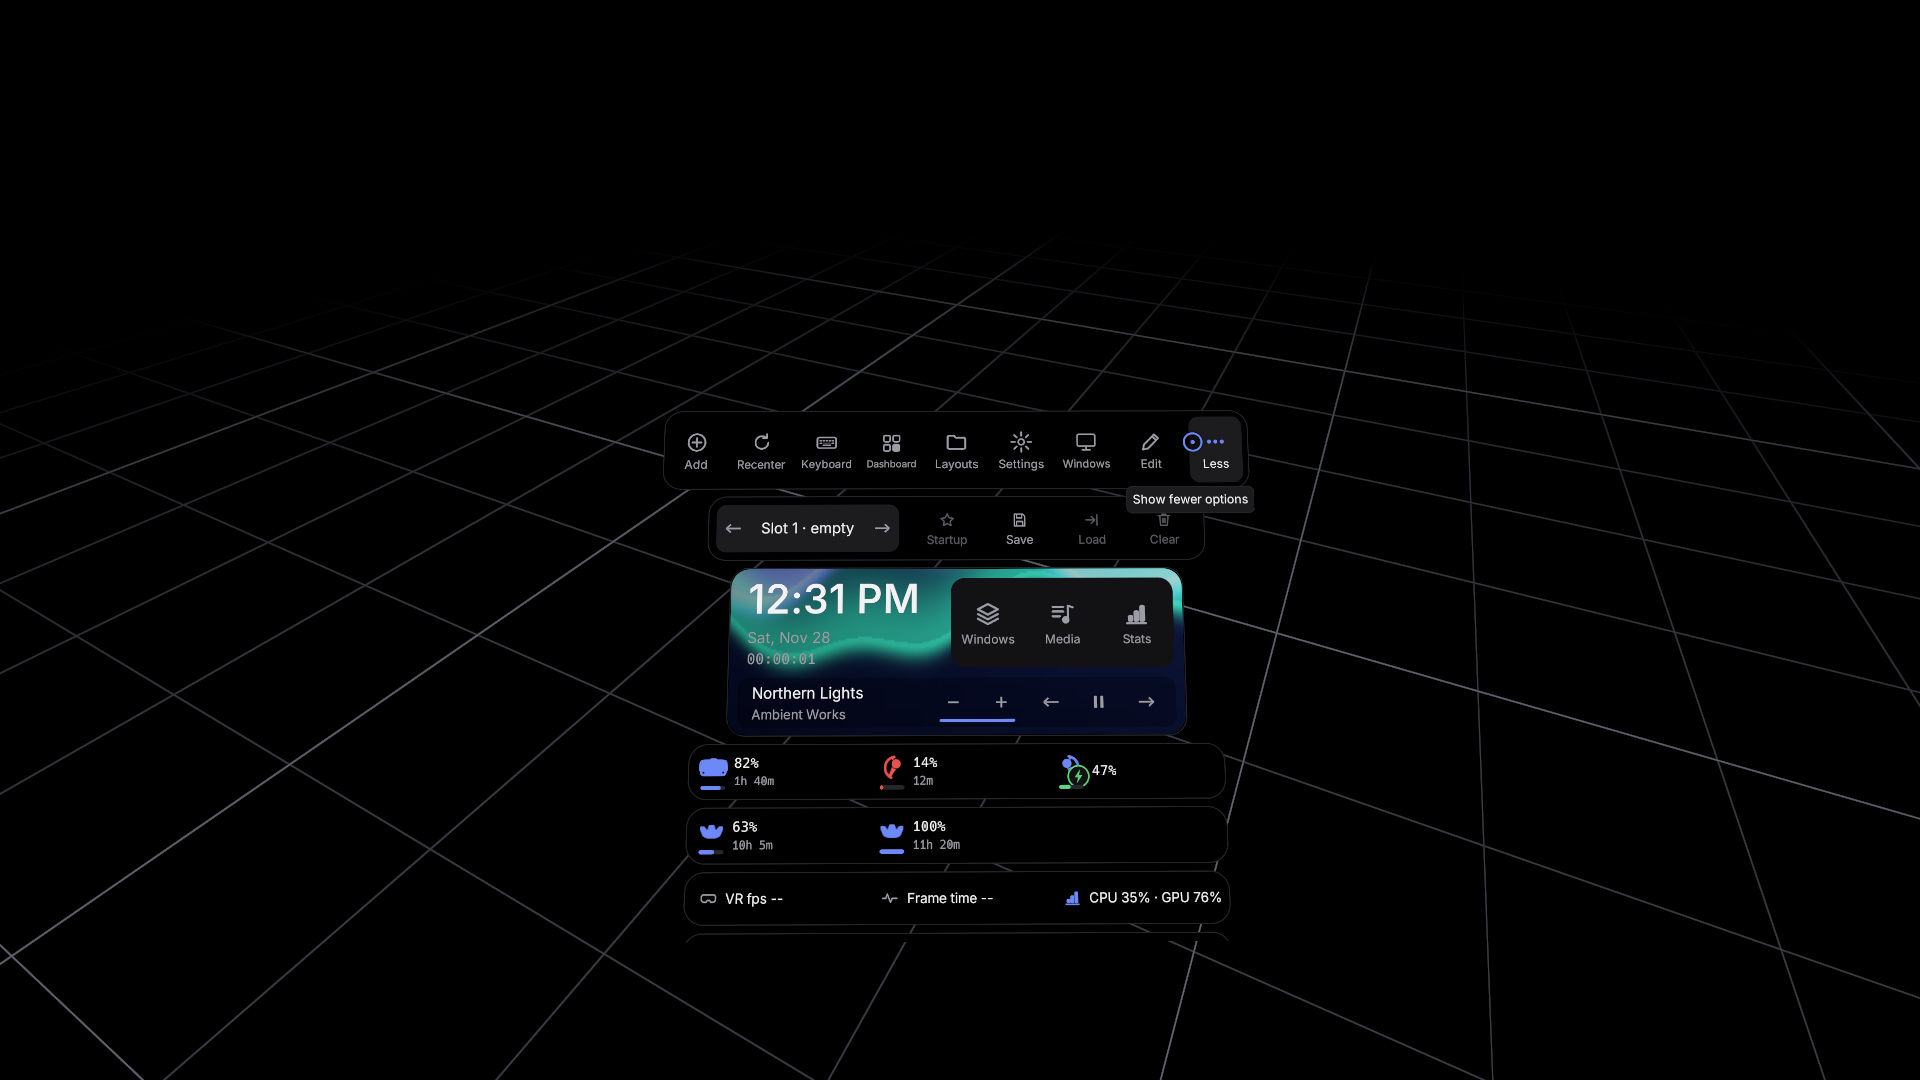
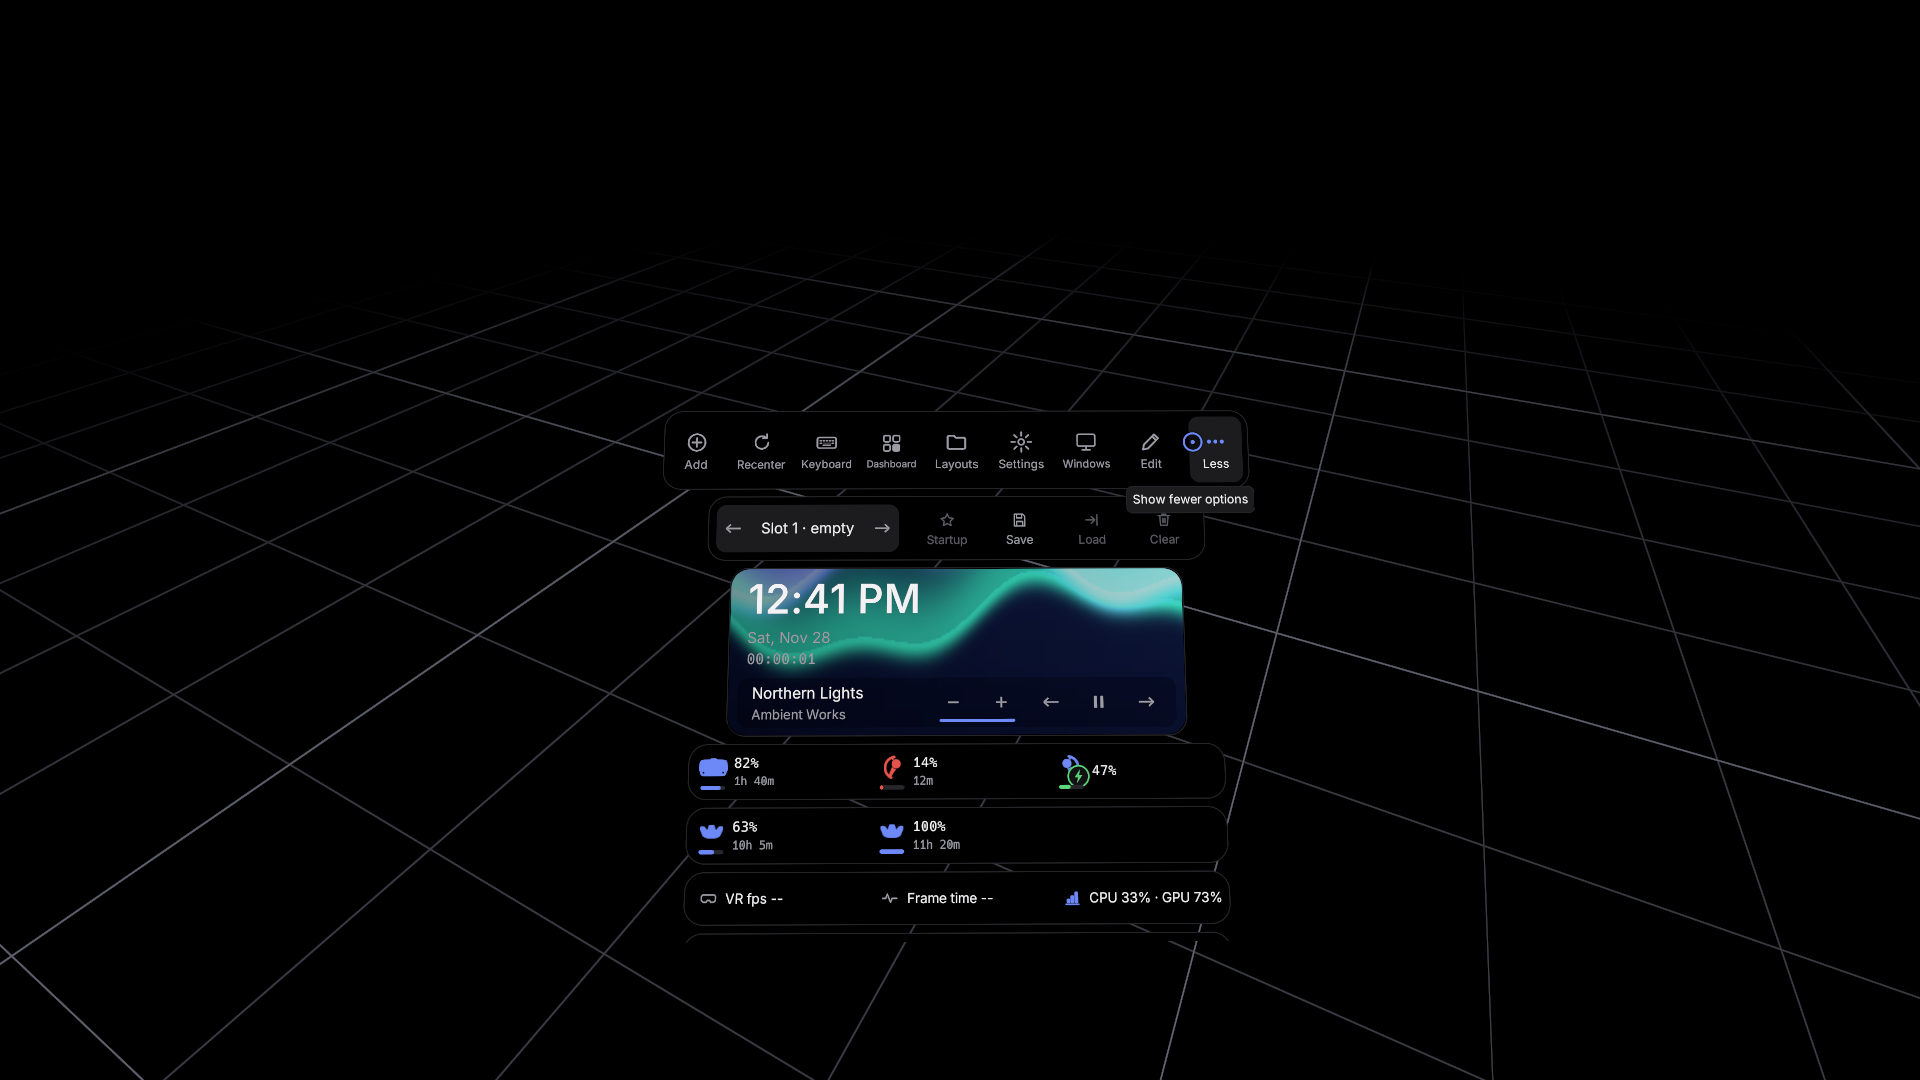
Monitor names, resting hand stays dark on the keyboard, no wrist views box
- Monitors are labelled with their own name from Windows (QueryDisplay-
  Config's friendly name, what Display Settings shows: "Q27G4" instead
  of "Monitor 0"; tester: not readable). Same models get "(1)", "(2)";
  no name falls back to "Monitor N". Read at startup and on refresh.
- VR keyboard: only typing hands light keys. The hand that typed last
  always does, the other only within 3 s of its own last press (two-
  handed typing keeps both lit); before anything is typed, both do.
  Tester: the resting hand's laser lit keys.
- Wrist: the Windows / Media / Stats views box is gone (it doubled the
  Windows button, the music row and the Stats pop-out; tester: didn't
  fit). The clock + media panel takes the full width; old configs just
  ignore the bit. Store shots and the overview re-rendered.

Tester: works.

Changed region(s): [[0.4062, 0.5194, 0.625, 0.6417], [0.5938, 0.825, 0.625, 0.8556]]

diff --git a/crates/rsoverlay-capture/src/lib.rs b/crates/rsoverlay-capture/src/lib.rs
@@ -17,6 +17,9 @@ pub struct MonitorInfo {
     pub width: u32,
     pub height: u32,
     pub device_name: String,
+    /// The monitor's own name as Windows shows it ("DELL U2723QE");
+    /// empty when Windows doesn't know one.
+    pub name: String,
     /// Top-left of the monitor in the Windows virtual-desktop coordinate
     /// space. Used by input injection to translate overlay-local coordinates
     /// back to real pixel positions.
@@ -89,6 +92,7 @@ mod dxgi {
     pub fn enumerate_monitors() -> Result<Vec<MonitorInfo>> {
         unsafe {
             let factory: IDXGIFactory1 = CreateDXGIFactory1().context("CreateDXGIFactory1")?;
+            let names = friendly_names();
             let mut monitors = Vec::new();
             let mut adapter_idx = 0u32;
             while let Ok(adapter) = factory.EnumAdapters1(adapter_idx) {
@@ -108,6 +112,7 @@ mod dxgi {
                         index: monitors.len() as u32,
                         width: (coords.right - coords.left) as u32,
                         height: (coords.bottom - coords.top) as u32,
+                        name: names.get(&name).cloned().unwrap_or_default(),
                         device_name: name,
                         origin_x: coords.left,
                         origin_y: coords.top,
@@ -119,6 +124,54 @@ mod dxgi {
             }
             Ok(monitors)
         }
+    }
+
+    /// GDI device name (`\\.\DISPLAY1`) -> the monitor's friendly name
+    /// (EDID model, what Display Settings shows), for active displays.
+    fn friendly_names() -> std::collections::HashMap<String, String> {
+        use windows::Win32::Devices::Display::{
+            DisplayConfigGetDeviceInfo, GetDisplayConfigBufferSizes, QueryDisplayConfig, DISPLAYCONFIG_DEVICE_INFO_GET_SOURCE_NAME,
+            DISPLAYCONFIG_DEVICE_INFO_GET_TARGET_NAME, DISPLAYCONFIG_MODE_INFO, DISPLAYCONFIG_PATH_INFO, DISPLAYCONFIG_SOURCE_DEVICE_NAME,
+            DISPLAYCONFIG_TARGET_DEVICE_NAME, QDC_ONLY_ACTIVE_PATHS,
+        };
+        let utf16 = |b: &[u16]| String::from_utf16_lossy(&b[..b.iter().position(|&c| c == 0).unwrap_or(b.len())]);
+        let mut out = std::collections::HashMap::new();
+        // SAFETY: buffers sized by GetDisplayConfigBufferSizes; each info
+        // request carries its own size in the header.
+        unsafe {
+            let (mut np, mut nm) = (0u32, 0u32);
+            if GetDisplayConfigBufferSizes(QDC_ONLY_ACTIVE_PATHS, &mut np, &mut nm).is_err() {
+                return out;
+            }
+            let mut paths = vec![DISPLAYCONFIG_PATH_INFO::default(); np as usize];
+            let mut modes = vec![DISPLAYCONFIG_MODE_INFO::default(); nm as usize];
+            if QueryDisplayConfig(QDC_ONLY_ACTIVE_PATHS, &mut np, paths.as_mut_ptr(), &mut nm, modes.as_mut_ptr(), None).is_err() {
+                return out;
+            }
+            for p in &paths[..np as usize] {
+                let mut src = DISPLAYCONFIG_SOURCE_DEVICE_NAME::default();
+                src.header.r#type = DISPLAYCONFIG_DEVICE_INFO_GET_SOURCE_NAME;
+                src.header.size = std::mem::size_of::<DISPLAYCONFIG_SOURCE_DEVICE_NAME>() as u32;
+                src.header.adapterId = p.sourceInfo.adapterId;
+                src.header.id = p.sourceInfo.id;
+                if DisplayConfigGetDeviceInfo(&mut src.header) != 0 {
+                    continue;
+                }
+                let mut tgt = DISPLAYCONFIG_TARGET_DEVICE_NAME::default();
+                tgt.header.r#type = DISPLAYCONFIG_DEVICE_INFO_GET_TARGET_NAME;
+                tgt.header.size = std::mem::size_of::<DISPLAYCONFIG_TARGET_DEVICE_NAME>() as u32;
+                tgt.header.adapterId = p.targetInfo.adapterId;
+                tgt.header.id = p.targetInfo.id;
+                if DisplayConfigGetDeviceInfo(&mut tgt.header) != 0 {
+                    continue;
+                }
+                let name = utf16(&tgt.monitorFriendlyDeviceName).trim().to_string();
+                if !name.is_empty() {
+                    out.insert(utf16(&src.viewGdiDeviceName), name);
+                }
+            }
+        }
+        out
     }
 
     pub struct DxgiDuplication {

diff --git a/crates/rsoverlay-ui/src/vrkeyboard.rs b/crates/rsoverlay-ui/src/vrkeyboard.rs
@@ -181,6 +181,10 @@ pub struct VrKeyboard {
     /// Per hand: backspace held since, and deletes done so far (iPhone
     /// style repeat, every mode).
     bs_hold: [Option<(f64, u32)>; 2],
+    /// Per hand: when it last pressed a key; and the hand that pressed
+    /// last. Only typing hands light keys up (see [`hand_highlights`]).
+    pressed_at: [Option<f64>; 2],
+    last_hand: Option<usize>,
     latched: [bool; 2],
     labels: HashMap<ScanKey, String>,
     label_key: Option<(isize, LabelMods)>,
@@ -231,6 +235,22 @@ fn key_sound(kind: Kind, scan: u16) -> rsoverlay_audio::typing::KeySound {
         (_, 0x1C) => S::Enter,
         (_, 0x0E) => S::Backspace,
         _ => S::Key,
+    }
+}
+
+/// Seconds a hand keeps lighting keys after its last press while the
+/// other hand is the one typing.
+const OTHER_HAND_S: f64 = 3.0;
+
+/// Does hand `s` light up the key under its laser? Before anything is
+/// typed, every hand does; after that the hand that typed last always
+/// does, and the other only within [`OTHER_HAND_S`] of its own last
+/// press (two-handed typing keeps both lit; a resting hand goes dark).
+/// Pure.
+pub(crate) fn hand_highlights(s: usize, last_hand: Option<usize>, pressed_at: Option<f64>, now: f64) -> bool {
+    match last_hand {
+        None => true,
+        Some(l) => l == s || pressed_at.is_some_and(|t| now - t < OTHER_HAND_S),
     }
 }
 
@@ -492,6 +512,8 @@ impl VrKeyboard {
                     continue;
                 }
                 if let Some(k) = key_at(p) {
+                    self.pressed_at[s] = Some(time);
+                    self.last_hand = Some(s);
                     out.haptic.push(hand);
                     out.sounds.push(key_sound(k.kind, k.k.scan));
                     if k.k == BACKSPACE {
@@ -585,7 +607,13 @@ impl VrKeyboard {
         }
 
         // Draw keys.
-        let hovered: Vec<egui::Pos2> = hands.iter().filter_map(|h| h.1).collect();
+        // A resting hand's laser doesn't light keys (tester): only the
+        // hand that typed last, or one that typed in the last few seconds.
+        let hovered: Vec<egui::Pos2> = hands
+            .iter()
+            .filter(|h| hand_highlights(slot(h.0), self.last_hand, self.pressed_at[slot(h.0)], time))
+            .filter_map(|h| h.1)
+            .collect();
         for (rect, k) in &keys {
             let held = self.held.iter().flatten().any(|(hk, _, _)| hk == &k.k);
             let (mod_on, mod_locked) = match k.kind {
@@ -701,6 +729,24 @@ pub fn draw_close(p: &egui::Painter, c: egui::Pos2, s: egui::Stroke) {
     let d = 6.0;
     p.line_segment([c + egui::vec2(-d, -d), c + egui::vec2(d, d)], s);
     p.line_segment([c + egui::vec2(-d, d), c + egui::vec2(d, -d)], s);
+}
+
+#[cfg(test)]
+mod highlight_tests {
+    use super::*;
+
+    #[test]
+    fn a_resting_hand_does_not_light_keys() {
+        // Nothing typed yet: both hands aim freely.
+        assert!(hand_highlights(0, None, None, 5.0));
+        // Right typed last: right lights keys, the never-used left doesn't.
+        assert!(hand_highlights(1, Some(1), Some(10.0), 20.0));
+        assert!(!hand_highlights(0, Some(1), None, 20.0));
+        // Two-handed typing: left typed a moment ago, still lit.
+        assert!(hand_highlights(0, Some(1), Some(18.5), 20.0));
+        // Left has rested for a while: dark.
+        assert!(!hand_highlights(0, Some(1), Some(12.0), 20.0));
+    }
 }
 
 #[cfg(test)]

diff --git a/crates/rsoverlay-ui/src/wrist.rs b/crates/rsoverlay-ui/src/wrist.rs
@@ -54,6 +54,9 @@ pub mod compact {
     pub const MEDIA: u32 = 1 << 9;
     pub const BATTERY: u32 = 1 << 10;
     pub const LAYOUTS: u32 = 1 << 11;
+    /// Retired: the Windows / Media / Stats views box (it doubled the
+    /// Windows button, the music row and the Stats pop-out; tester: it
+    /// didn't fit). Kept so old configs keep their other bits.
     pub const VIEWS: u32 = 1 << 12;
     /// Session timer line under the clock.
     pub const TIMER: u32 = 1 << 13;
@@ -73,7 +76,6 @@ pub mod compact {
         (BATTERY, "Batteries"),
         (MEDIA, "Media"),
         (LAYOUTS, "Layout slots"),
-        (VIEWS, "Views"),
     ];
     /// Status-chip modules, in row order.
     pub const CHIPS: &[(u32, &str)] = &[(VR_FPS, "VR FPS"), (FRAME, "Frame time"), (PERF, "CPU / GPU"), (VRAM, "VRAM"), (RAM, "RAM"), (ALERTS, "Alerts")];
@@ -283,7 +285,7 @@ pub fn show(ctx: &egui::Context, d: &WristData) -> WristAction {
 
         // 3 · Clock + views (+ media inside the same slab).
         let show_clock = has(compact::CLOCK);
-        let show_views = has(compact::VIEWS);
+        let show_views = false;
         // Editing with nothing playing: a stand-in so Media can be toggled.
         let title = d.title.filter(|_| has(compact::MEDIA)).or(d.editing.then_some("Media · shows while something plays"));
         let top_h = if show_clock || show_views { 108.0 } else { 8.0 };
@@ -325,28 +327,6 @@ pub fn show(ctx: &egui::Context, d: &WristData) -> WristAction {
                 edits.push((egui::Rect::from_min_size(at - egui::vec2(6.0, 0.0), galley.size() + egui::vec2(60.0, 4.0)), compact::TIMER));
             }
             p.galley(at, galley, theme::FG_MUTED);
-        }
-        }
-        if show_views {
-        let left = if show_clock { r3.center().x - 6.0 } else { r3.left() + 10.0 };
-        let views = egui::Rect::from_min_max(egui::pos2(left, r3.top() + 10.0), egui::pos2(r3.right() - 10.0, r3.top() + 98.0));
-        ui.painter().rect_filled(views, theme::RADIUS_CARD, theme::BG_CARD);
-        edits.push((views, compact::VIEWS));
-        let vw = views.width() / 3.0;
-        let view_defs: [(egui::ImageSource<'static>, &str, &str); 3] = [
-            (icons::LAYERS, "Windows", "Windows & monitors"),
-            (icons::MUSIC, "Media", "Media & volume"),
-            (icons::CHART, "Stats", "Pop out performance stats"),
-        ];
-        for (i, (src, label, tip)) in view_defs.into_iter().enumerate() {
-            let c = egui::Rect::from_min_size(egui::pos2(views.left() + i as f32 * vw, views.top()), egui::vec2(vw, views.height()));
-            if labelled_button(ui, c.shrink(6.0), src, 28.0, false, label, tip, accent) {
-                match i {
-                    0 => act.open_page = Some(Page::Desktop),
-                    1 => act.open_page = Some(Page::Audio),
-                    _ => act.popout_stats = true,
-                }
-            }
         }
         }
         if let Some(title) = title {

diff --git a/crates/rsoverlay-ui/src/views.rs b/crates/rsoverlay-ui/src/views.rs
@@ -55,9 +55,58 @@ pub enum CaptureSource {
 impl CaptureSource {
     pub fn label(&self) -> String {
         match self {
-            Self::Monitor(i) => format!("Monitor {i}"),
+            Self::Monitor(i) => monitor_label(*i),
             Self::Window { title, .. } => title.clone(),
         }
+    }
+}
+
+/// Monitor display names, by capture index (set by the app from Windows'
+/// own monitor names; tester: "Monitor 0" wasn't readable).
+static MONITOR_LABELS: std::sync::RwLock<Vec<String>> = std::sync::RwLock::new(Vec::new());
+
+/// Store the monitors' names (by capture index; empty = unknown).
+pub fn set_monitor_names(names: &[String]) {
+    if let Ok(mut l) = MONITOR_LABELS.write() {
+        *l = monitor_labels(names);
+    }
+}
+
+/// A monitor's label: its own name, or "Monitor N" when unknown.
+pub fn monitor_label(i: u32) -> String {
+    MONITOR_LABELS.read().ok().and_then(|l| l.get(i as usize).cloned()).unwrap_or_else(|| format!("Monitor {i}"))
+}
+
+/// Names -> labels: unknown names fall back to "Monitor N"; repeated
+/// names (two of the same model) get " (2)", " (3)" ... Pure.
+pub fn monitor_labels(names: &[String]) -> Vec<String> {
+    names
+        .iter()
+        .enumerate()
+        .map(|(i, n)| {
+            let n = n.trim();
+            if n.is_empty() {
+                return format!("Monitor {i}");
+            }
+            let total = names.iter().filter(|m| m.trim() == n).count();
+            let nth = names[..i].iter().filter(|m| m.trim() == n).count() + 1;
+            if total > 1 {
+                format!("{n} ({nth})")
+            } else {
+                n.to_string()
+            }
+        })
+        .collect()
+}
+
+#[cfg(test)]
+mod monitor_label_tests {
+    use super::*;
+
+    #[test]
+    fn monitors_use_their_names_numbered_when_repeated() {
+        let names = ["DELL U2723QE", "", "LG ULTRAGEAR", "LG ULTRAGEAR"].map(String::from);
+        assert_eq!(monitor_labels(&names), ["DELL U2723QE", "Monitor 1", "LG ULTRAGEAR (1)", "LG ULTRAGEAR (2)"]);
     }
 }
 

diff --git a/crates/rsoverlay-app/src/mirror_source.rs b/crates/rsoverlay-app/src/mirror_source.rs
@@ -260,10 +260,18 @@ impl ThumbWorker {
     }
 }
 
+/// Read the monitors' own names from Windows for their labels ("DELL
+/// U2723QE" instead of "Monitor 0").
+pub fn refresh_monitor_names() -> Vec<rsoverlay_capture::MonitorInfo> {
+    let mons = enumerate_monitors().unwrap_or_default();
+    let names: Vec<String> = mons.iter().map(|m| m.name.clone()).collect();
+    rsoverlay_ui::views::set_monitor_names(&names);
+    mons
+}
+
 /// Every monitor plus every capturable window, for the source picker.
 pub fn list_sources() -> Vec<CaptureSource> {
-    let mut out: Vec<CaptureSource> = enumerate_monitors()
-        .unwrap_or_default()
+    let mut out: Vec<CaptureSource> = refresh_monitor_names()
         .into_iter()
         .map(|m| CaptureSource::Monitor(m.index))
         .collect();

diff --git a/crates/rsoverlay-ui/src/window_panel.rs b/crates/rsoverlay-ui/src/window_panel.rs
@@ -509,7 +509,7 @@ pub fn source_grid(ui: &mut egui::Ui, sources: &mut SourcePicker, open: &[Captur
                         crate::icons::icon(crate::icons::MONITOR, 48.0, tint)
                             .paint_at(ui, egui::Rect::from_center_size(preview.center(), egui::vec2(48.0, 48.0)));
                         crate::icons::icon(crate::icons::MONITOR, 22.0, tint).paint_at(ui, icon_r.shrink(2.0));
-                        format!("Monitor {i}")
+                        crate::views::monitor_label(*i)
                     }
                     CaptureSource::Window { hwnd, title } => {
                         let icon = sources.icon_texture(ui.ctx(), *hwnd);

diff --git a/tools/make-overview.py b/tools/make-overview.py
@@ -15,7 +15,7 @@ SHOTS = [
     ('vr-social', 'Social VR', 'chatbox + keyboard · notifications · now playing', None),
     ('vr-gaming', 'In game', 'guide pinned aside · media and battery widgets · wrist', None),
     ('vr-wrist-compact', 'Wrist toolbar', 'the everyday buttons + More · album cover while music plays', WRIST_CROP),
-    ('vr-wrist-expanded', 'Wrist toolbar, More', 'every action, layout slots, views, batteries', WRIST_CROP),
+    ('vr-wrist-expanded', 'Wrist toolbar, More', 'every action, layout slots, batteries, stats', WRIST_CROP),
 ]
 TW, TH = 1152, 648
 PAD, GAP, CAP, HEAD = 64, 40, 96, 210

diff --git a/crates/rsoverlay-app/src/preview.rs b/crates/rsoverlay-app/src/preview.rs
@@ -746,6 +746,8 @@ pub fn run(
     app_config: rsoverlay_core::Config,
     config_path: std::path::PathBuf,
 ) -> Result<()> {
+    // Monitor labels from Windows' own names ("Q27G4", not "Monitor 0").
+    crate::mirror_source::refresh_monitor_names();
     let event_loop = EventLoop::new().context("creating winit event loop")?;
     let want = (f64::from(INITIAL_WIN_W), f64::from(INITIAL_WIN_H));
     let (size, pos) = if test.screenshot.is_some() { (winit::dpi::LogicalSize::new(want.0, want.1), None) } else { fit_to_monitor(&event_loop, want) };

diff --git a/crates/rsoverlay-app/src/vr.rs b/crates/rsoverlay-app/src/vr.rs
@@ -897,6 +897,8 @@ mod imp {
         // space). The compositor carries it; `dash_pose` follows each frame.
         let mut dash_rel: Option<(u32, Affine3A)> = None;
         let mut grab: Option<Grab> = None;
+        // Monitor labels ("Q27G4", not "Monitor 0") before any window opens.
+        crate::mirror_source::refresh_monitor_names();
         let mut wins: Vec<WinOverlay> = Vec::new();
         let layouts_path = rsoverlay_core::layouts::Layouts::path();
         dev_view.layouts = rsoverlay_core::layouts::Layouts::load(&layouts_path);

diff --git a/crates/rsoverlay-app/src/main.rs b/crates/rsoverlay-app/src/main.rs
@@ -376,7 +376,7 @@ fn run_main() -> Result<()> {
 
     if args.list_monitors {
         for m in rsoverlay_capture::enumerate_monitors()? {
-            println!("[{}] {} {}x{}", m.index, m.device_name, m.width, m.height);
+            println!("[{}] {} {}x{} {:?}", m.index, m.device_name, m.width, m.height, m.name);
         }
         return Ok(());
     }
